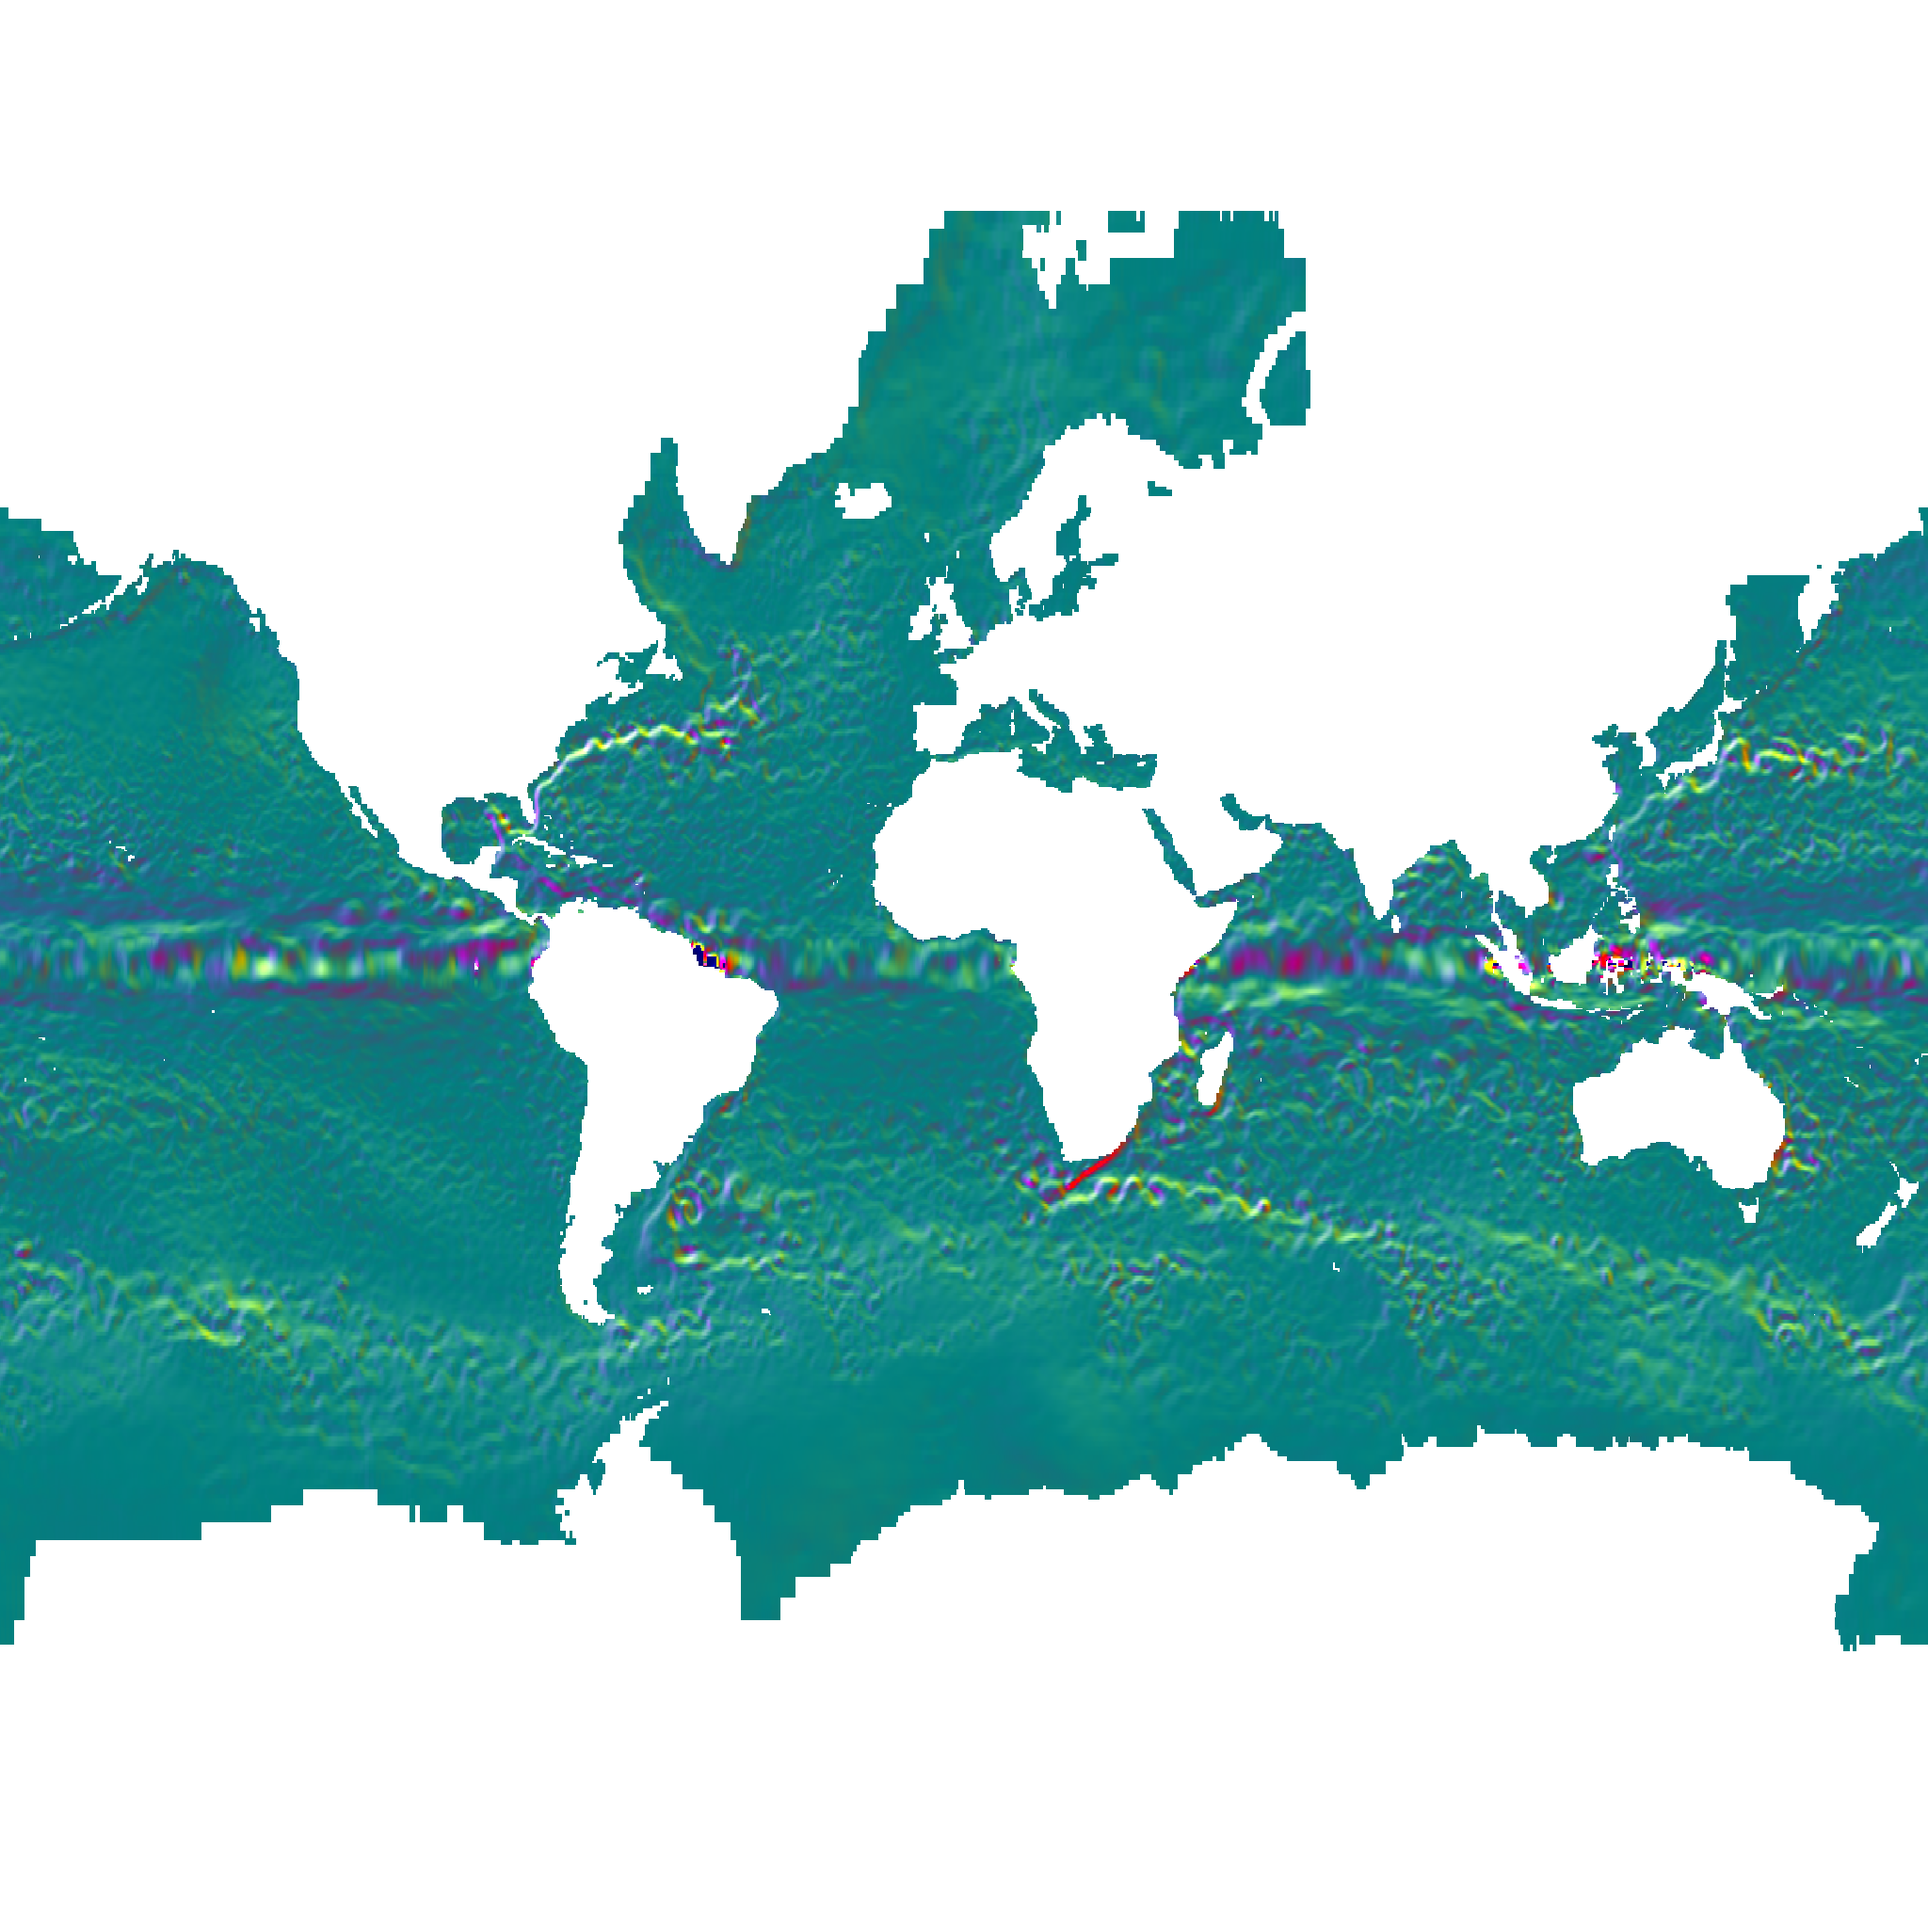
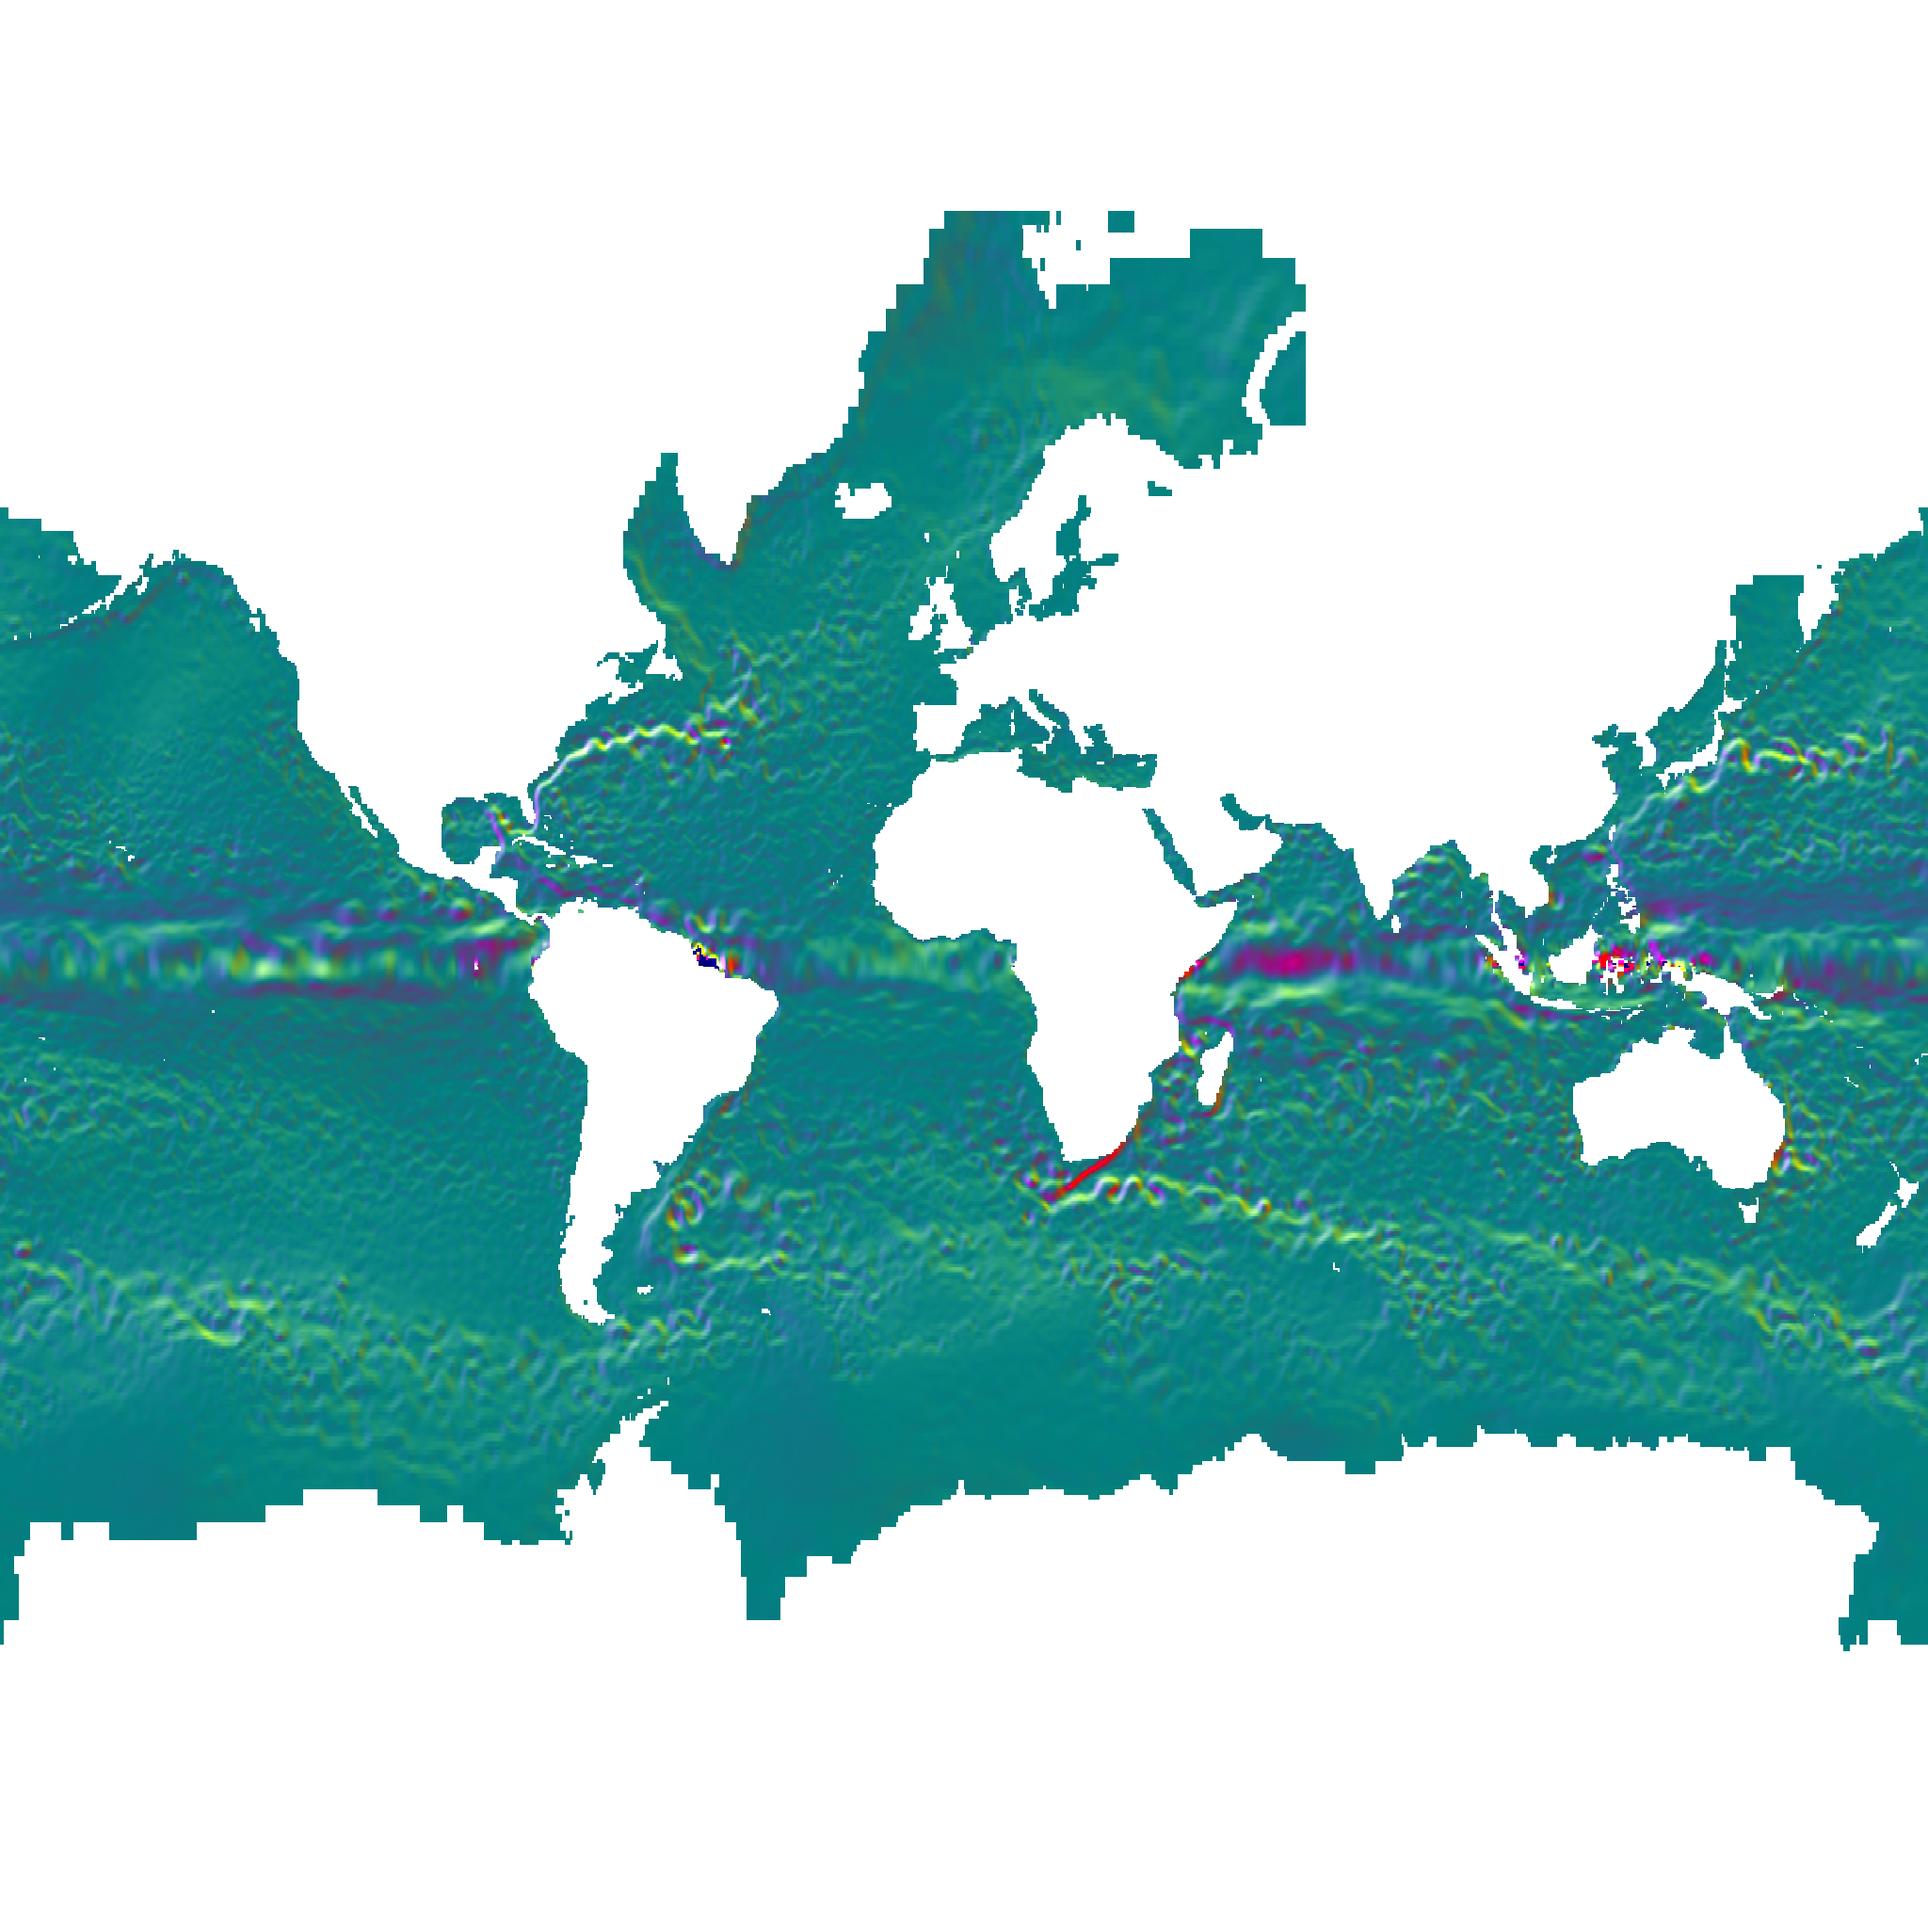
Update data

diff --git a/docs/config.js b/docs/config.js
@@ -3,9 +3,6 @@ const date = '20210323';
 const time = '12';
 const datetime = `${date}${time}`;
 
-const dateOstia = moment(date).subtract(1, 'days').format('YYYYMMDD');
-const dateEcmwf = moment(date).subtract(1, 'days').format('YYYYMMDD');
-
 function hexToRgb(hex) {
     return [
         parseInt(hex.substr(1, 2), 16),
@@ -134,53 +131,53 @@ const overlayLayerConfigs = new Map([
         legendValueDecimals: 1,
     }],
     ['ostia/analysed_sst', {
-        imagePath: `${basepath}/ostia/analysed_sst/${dateOstia}.png`,
+        imagePath: `${basepath}/ostia/analysed_sst/${date}.png`,
         bounds: [270 - 273.15, 304.65 - 273.15],
         colorFunction: 'ostia/analysed_sst',
         legendTitle: 'Sea Surface Temperature [°C]',
     }],
     ['ostia/sst_anomaly', {
-        imagePath: `${basepath}/ostia/sst_anomaly/${dateOstia}.png`,
+        imagePath: `${basepath}/ostia/sst_anomaly/${date}.png`,
         bounds: [-11, 11],
         colorFunction: 'ostia/sst_anomaly',
         legendTitle: 'Sea Surface Temperature Anomaly [°C]',
     }],
     ['ostia/sea_ice_fraction', {
-        imagePath: `${basepath}/ostia/sea_ice_fraction/${dateOstia}.png`,
+        imagePath: `${basepath}/ostia/sea_ice_fraction/${date}.png`,
         bounds: [0, 100],
         colorFunction: 'ostia/sea_ice_fraction',
         legendTitle: 'Sea Ice Fraction [%]',
     }],
     ['ecmwf/co', {
-        imagePath: `${basepath}/ecmwf/co/${dateEcmwf}.png`,
+        imagePath: `${basepath}/ecmwf/co/${datetime}.png`,
         bounds: [0.0044e-6, 9.4e-6],
         colorFunction: 'ecmwf/co',
         legendTitle: 'CO [μg/m³]',
         legendValueFormat: value => value * 1000000000,
     }],
     ['ecmwf/so2', {
-        imagePath: `${basepath}/ecmwf/so2/${dateEcmwf}.png`,
+        imagePath: `${basepath}/ecmwf/so2/${datetime}.png`,
         bounds: [0.035e-9, 75e-9],
         colorFunction: 'ecmwf/so2',
         legendTitle: 'SO₂ [ppb]',
         legendValueFormat: value => value * 1000000000,
     }],
     ['ecmwf/no2', {
-        imagePath: `${basepath}/ecmwf/no2/${dateEcmwf}.png`,
+        imagePath: `${basepath}/ecmwf/no2/${datetime}.png`,
         bounds: [0.053e-9, 100e-9],
         colorFunction: 'ecmwf/no2',
         legendTitle: 'NO₂ [ppb]',
         legendValueFormat: value => value * 1000000000,
     }],
     ['ecmwf/pm2p5', {
-        imagePath: `${basepath}/ecmwf/pm2p5/${dateEcmwf}.png`,
+        imagePath: `${basepath}/ecmwf/pm2p5/${datetime}.png`,
         bounds: [0.012e-9, 35.4e-9],
         colorFunction: 'ecmwf/pm2p5',
         legendTitle: 'PM2.5 [μg/m³]',
         legendValueFormat: value => value * 1000000000,
     }],
     ['ecmwf/pm10', {
-        imagePath: `${basepath}/ecmwf/pm10/${dateEcmwf}.png`,
+        imagePath: `${basepath}/ecmwf/pm10/${datetime}.png`,
         bounds: [0.054e-9, 154e-9],
         colorFunction: 'ecmwf/pm10',
         legendTitle: 'PM10 [μg/m³]',

diff --git a/docs/index.html b/docs/index.html
@@ -5,7 +5,6 @@
     <title>weather-gl</title>
     <script src="https://cdnjs.cloudflare.com/ajax/libs/dat-gui/0.7.7/dat.gui.min.js"></script>
     <script src="https://cdnjs.cloudflare.com/ajax/libs/d3/5.16.0/d3.min.js"></script>
-    <script src="https://cdnjs.cloudflare.com/ajax/libs/moment.js/2.27.0/moment.min.js"></script>
     <script src="../dist/weather-gl.umd.min.js"></script>
     <style>
         body {
